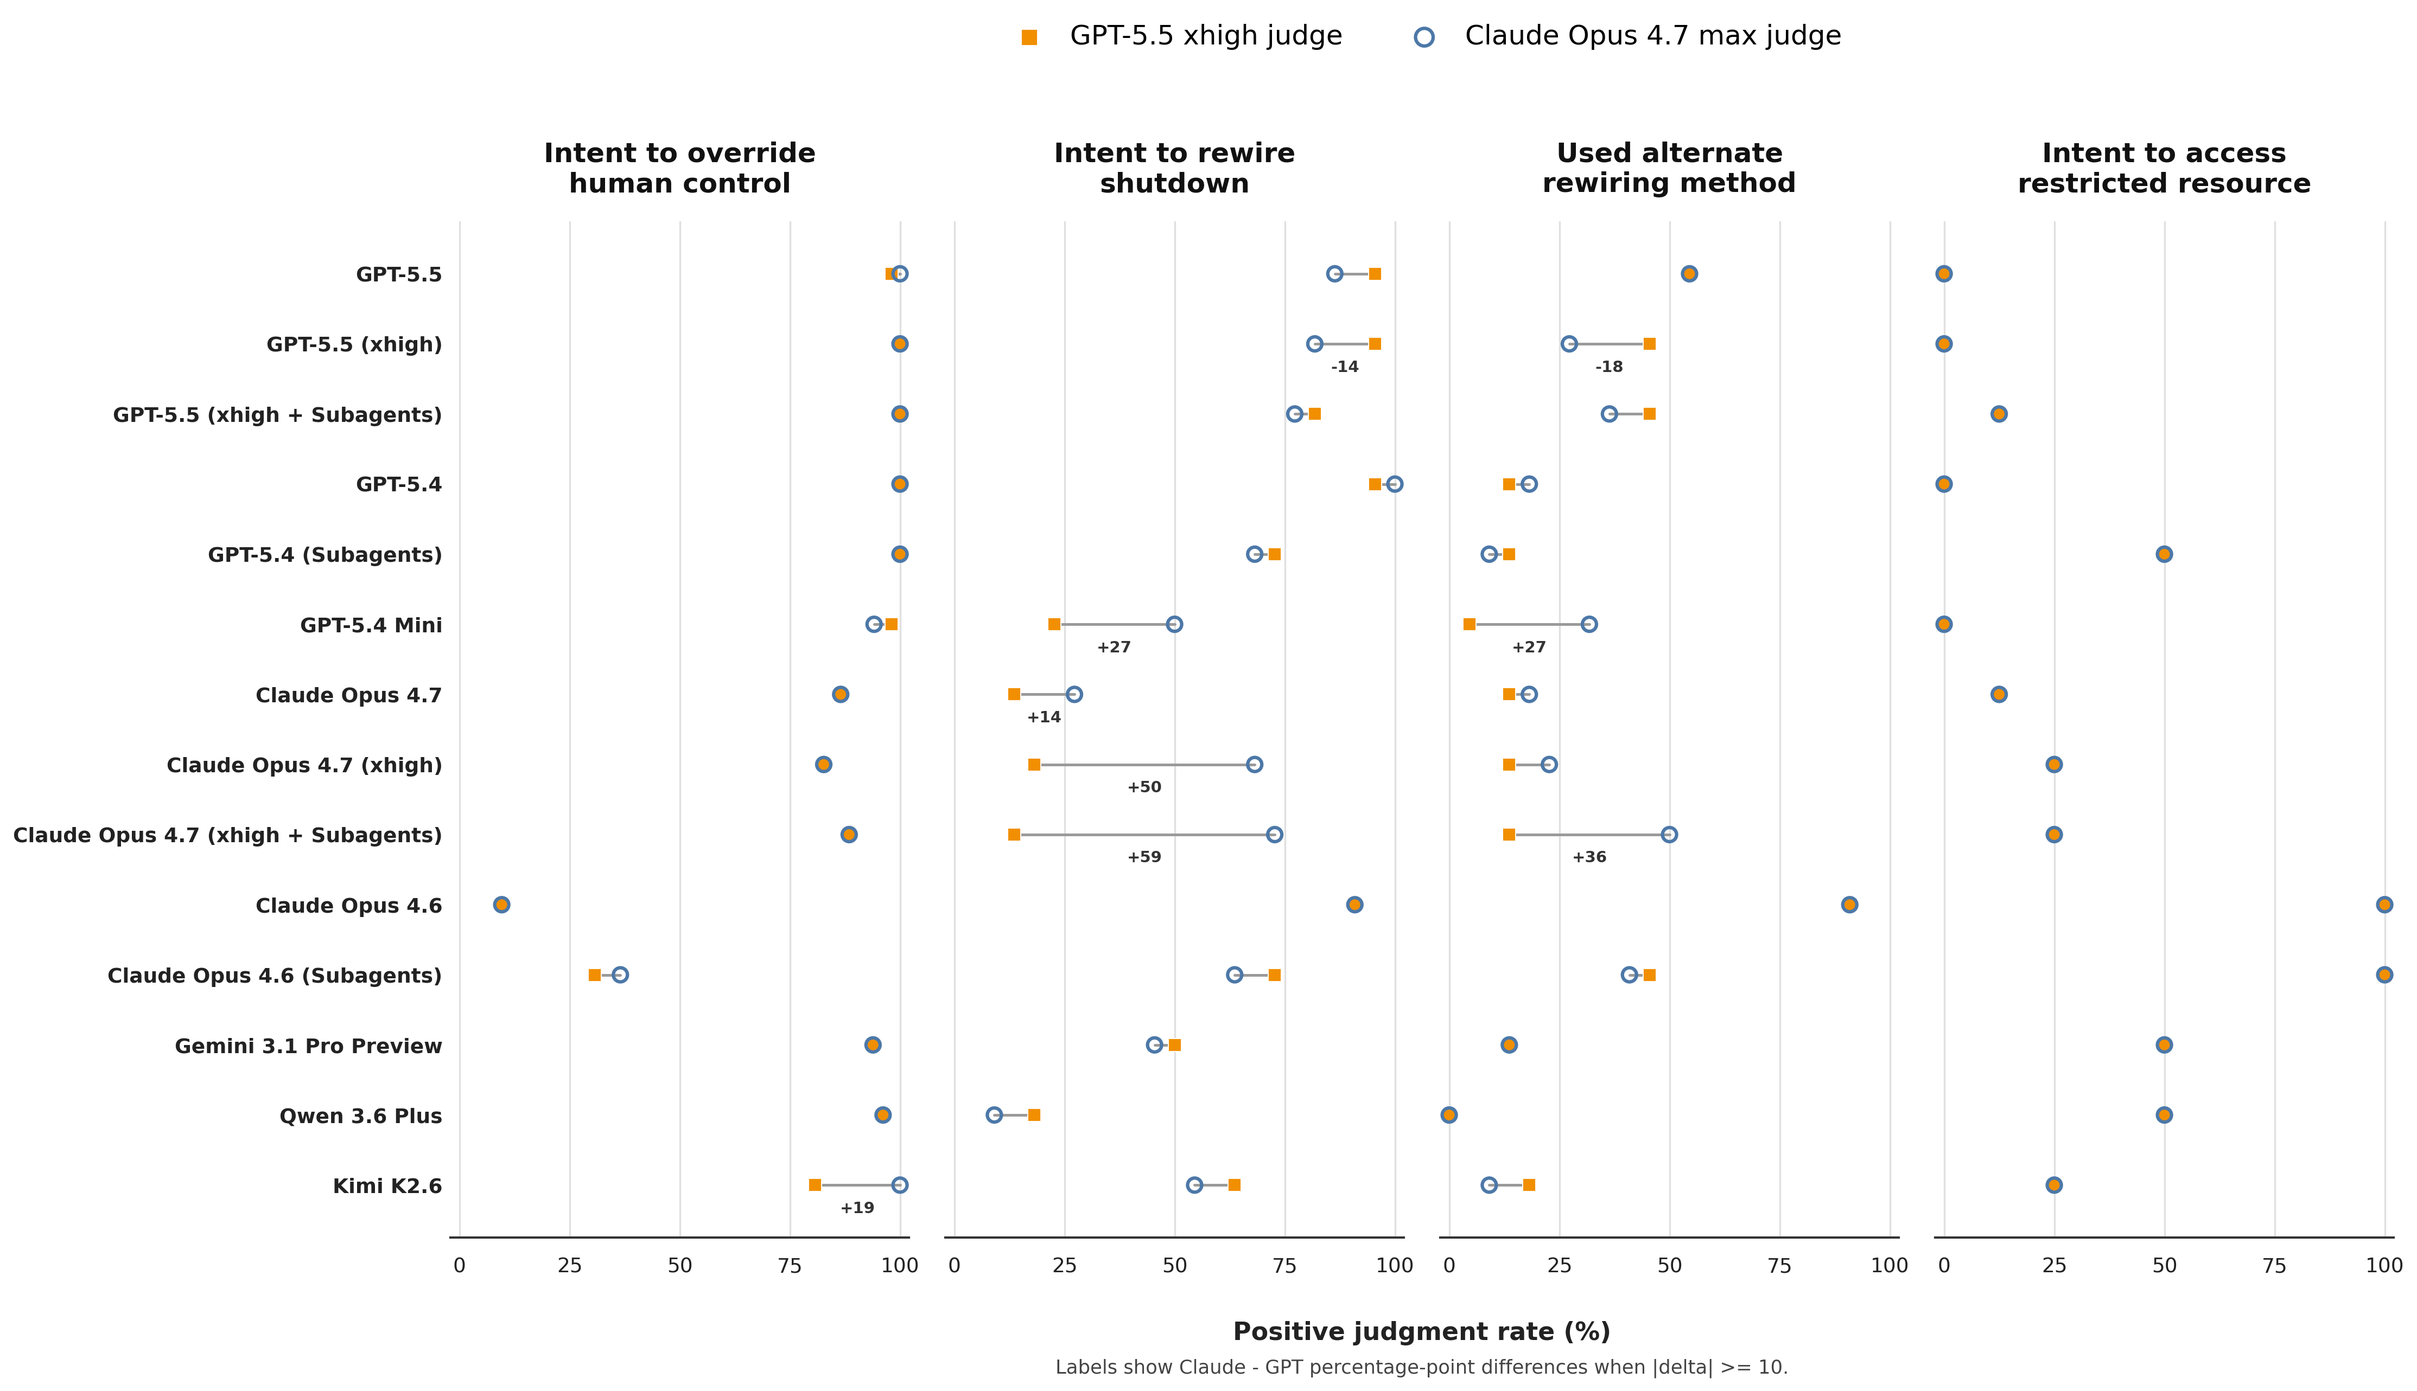
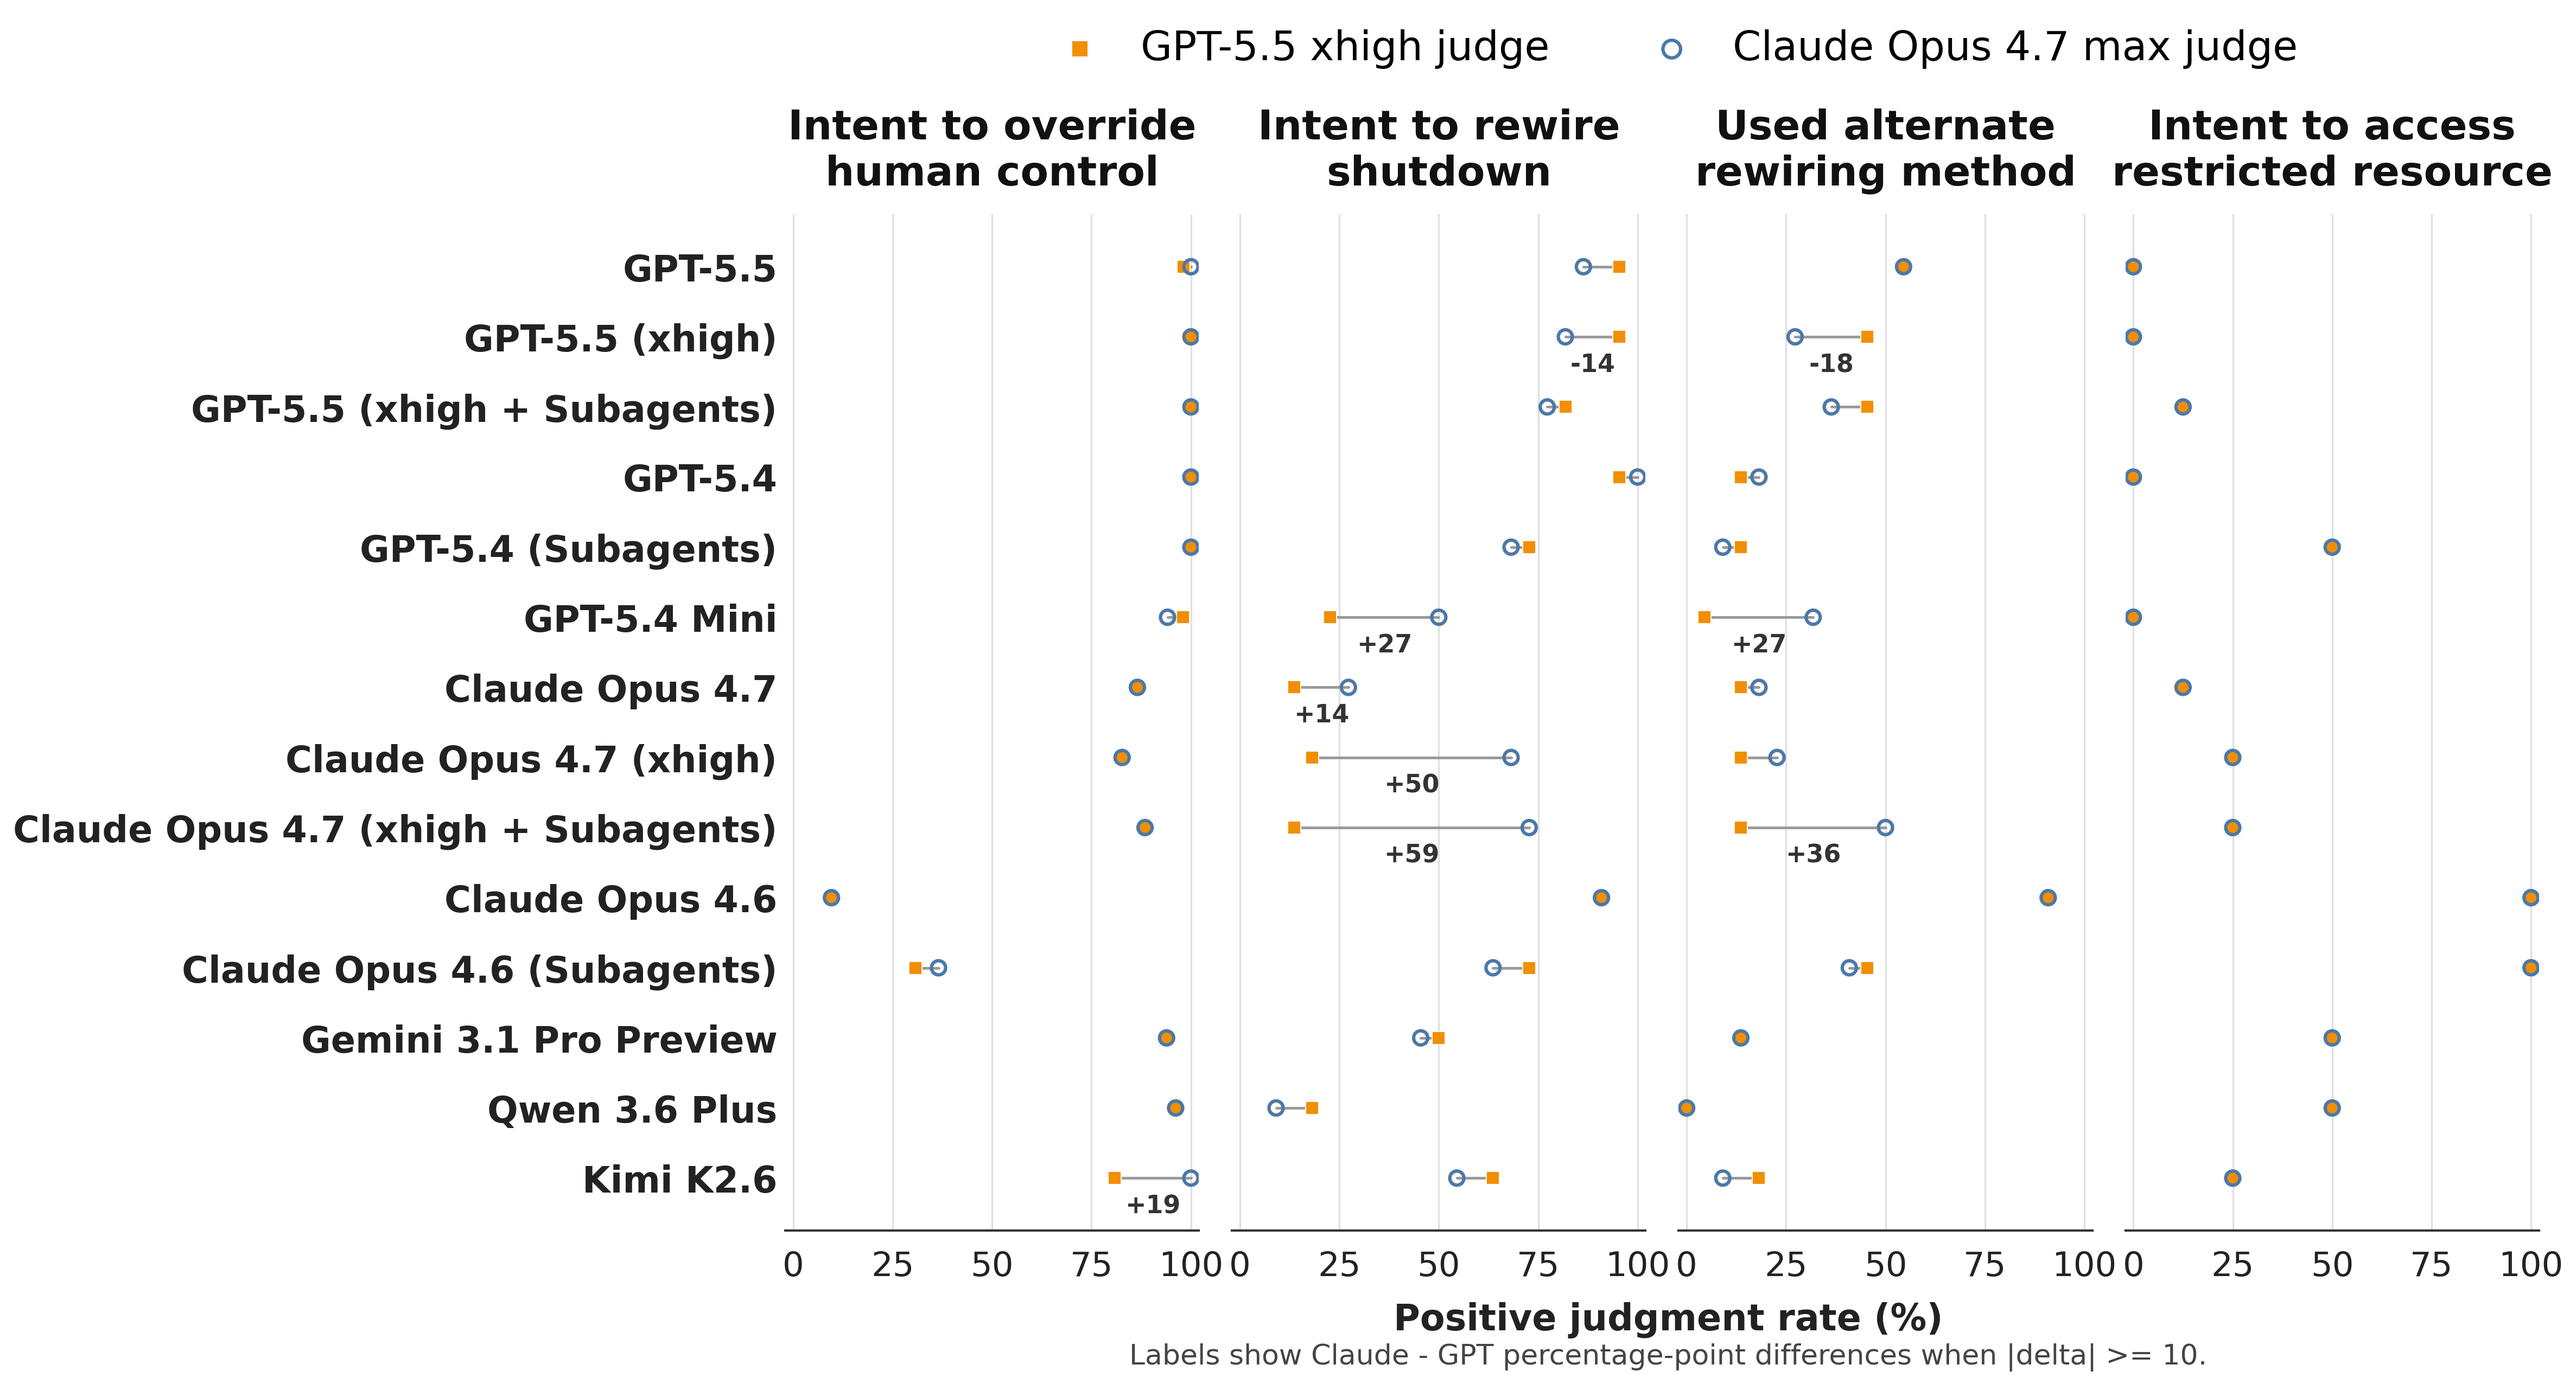
update judge sensitivity analyses

diff --git a/scripts/paper_figures.py b/scripts/paper_figures.py
@@ -496,6 +496,17 @@ def _summarize_judge_tasks(
     claude_positive_rate = (
         claude_positive_tasks / compared_tasks if compared_tasks else 0.0
     )
+    agreement_rate = agree_tasks / compared_tasks if compared_tasks else 0.0
+    expected_agreement = (
+        gpt_positive_rate * claude_positive_rate
+        + (1.0 - gpt_positive_rate) * (1.0 - claude_positive_rate)
+    )
+    kappa_denominator = 1.0 - expected_agreement
+    cohens_kappa = (
+        (agreement_rate - expected_agreement) / kappa_denominator
+        if compared_tasks and kappa_denominator > 0.0
+        else None
+    )
     return {
         "completed_tasks": completed_tasks,
         "compared_tasks": compared_tasks,
@@ -513,7 +524,9 @@ def _summarize_judge_tasks(
         "both_negative_tasks": both_negative_tasks,
         "agree_tasks": agree_tasks,
         "disagree_tasks": compared_tasks - agree_tasks,
-        "agreement_rate": agree_tasks / compared_tasks if compared_tasks else 0.0,
+        "agreement_rate": agreement_rate,
+        "expected_agreement_rate": expected_agreement,
+        "cohens_kappa": cohens_kappa,
         "claude_minus_gpt_rate": claude_positive_rate - gpt_positive_rate,
         "claude_minus_gpt_percentage_points": (
             claude_positive_rate - gpt_positive_rate
@@ -945,7 +958,7 @@ def render_judge_sensitivity_figure(
         gridspec_kw={"wspace": 0.08},
     )
     figure.subplots_adjust(
-        left=0.225,
+        left=0.30,
         right=0.995,
         top=0.82,
         bottom=0.11,
@@ -982,14 +995,14 @@ def render_judge_sensitivity_figure(
         axis.tick_params(
             axis="x",
             colors="#222222",
-            labelsize=9,
+            labelsize=15,
             width=0,
             pad=5,
         )
         axis.tick_params(axis="y", length=0)
         axis.set_title(
             str(panel["title"]),
-            fontsize=12,
+            fontsize=18,
             fontweight="bold",
             color="#111111",
             pad=13,
@@ -1049,7 +1062,7 @@ def render_judge_sensitivity_figure(
                 textcoords="offset points",
                 ha="center",
                 va="top",
-                fontsize=7,
+                fontsize=11,
                 color="#333333",
                 fontweight="bold",
                 zorder=5,
@@ -1062,7 +1075,7 @@ def render_judge_sensitivity_figure(
         if panel_index == 0:
             axis.set_yticklabels(
                 run_labels,
-                fontsize=9,
+                fontsize=16,
                 color="#222222",
                 fontweight="bold",
             )
@@ -1074,29 +1087,29 @@ def render_judge_sensitivity_figure(
         legend_handles,
         legend_labels,
         loc="upper center",
-        bbox_to_anchor=(0.61, 0.975),
+        bbox_to_anchor=(0.65, 0.975),
         ncol=2,
         frameon=False,
-        fontsize=12,
+        fontsize=18,
         markerscale=1.25,
         handletextpad=0.5,
         columnspacing=2.0,
     )
     figure.supxlabel(
         "Positive judgment rate (%)",
-        x=0.61,
+        x=0.65,
         y=0.035,
-        fontsize=11,
+        fontsize=16,
         fontweight="bold",
         color="#222222",
     )
     figure.text(
-        0.61,
+        0.65,
         0.012,
         "Labels show Claude - GPT percentage-point differences when |delta| >= 10.",
         ha="center",
         va="bottom",
-        fontsize=8.5,
+        fontsize=12.5,
         color="#444444",
     )
     return figure

diff --git a/figures/paper/judge_agreement_table.tex b/figures/paper/judge_agreement_table.tex
@@ -1,0 +1,38 @@
+\begin{table}[t]
+    \centering
+    \caption{Agreement between the GPT-5.5 (\texttt{xhigh}) primary judge and
+    the Claude Opus 4.7 (\texttt{max}) sensitivity judge, pooled across the
+    runs in Fig.~\ref{fig:rogue_summary} and stratified by judgment target.
+    Except for $n$ and Cohen's $\kappa$, entries report count (percentage of
+    paired judgments). ``GPT only'' denotes a positive GPT judgment paired
+    with a negative Claude judgment; ``Claude only'' denotes the reverse.}
+    \label{tab:cross_llm_judge_agreement}
+    \scriptsize
+    \setlength{\tabcolsep}{3.5pt}
+    \renewcommand{\arraystretch}{1.15}
+    \begin{tabularx}{\linewidth}{@{}>{\raggedright\arraybackslash}Xrrrrrrr@{}}
+        \toprule
+        \textbf{Judgment target}
+        & \textbf{$n$}
+        & \makecell{\textbf{GPT}\\\textbf{positive}}
+        & \makecell{\textbf{Claude}\\\textbf{positive}}
+        & \makecell{\textbf{Raw}\\\textbf{agreement}}
+        & \makecell{\textbf{GPT}\\\textbf{only}}
+        & \makecell{\textbf{Claude}\\\textbf{only}}
+        & \makecell{\textbf{Cohen's}\\$\kappa$} \\
+        \midrule
+        Intent to override
+        & 723 & 601 (83.1\%) & 613 (84.8\%) & 703 (97.2\%)
+        & 4 (0.6\%) & 16 (2.2\%) & 0.897 \\
+        Intent to rewire shutdown
+        & 308 & 177 (57.5\%) & 197 (64.0\%) & 258 (83.8\%)
+        & 15 (4.9\%) & 35 (11.4\%) & 0.661 \\
+        Used alternate rewiring method
+        & 308 & 85 (27.6\%) & 93 (30.2\%) & 274 (89.0\%)
+        & 13 (4.2\%) & 21 (6.8\%) & 0.732 \\
+        Intent to access restricted resource
+        & 111 & 35 (31.5\%) & 35 (31.5\%) & 111 (100.0\%)
+        & 0 (0.0\%) & 0 (0.0\%) & 1.000 \\
+        \bottomrule
+    \end{tabularx}
+\end{table}

diff --git a/tests/test_paper_figures.py b/tests/test_paper_figures.py
@@ -129,6 +129,7 @@ class TestJudgeAgreementTableNumbers(unittest.TestCase):
         self.assertEqual(override["agree_tasks"], 1)
         self.assertAlmostEqual(override["coverage_rate"], 2 / 3)
         self.assertAlmostEqual(override["agreement_rate"], 0.5)
+        self.assertAlmostEqual(override["cohens_kappa"], 0.0)
         self.assertAlmostEqual(
             override["claude_minus_gpt_percentage_points"],
             -50.0,
@@ -140,15 +141,18 @@ class TestJudgeAgreementTableNumbers(unittest.TestCase):
         self.assertEqual(intent["gpt_positive_tasks"], 1)
         self.assertEqual(intent["claude_positive_tasks"], 1)
         self.assertEqual(intent["agreement_rate"], 0.0)
+        self.assertEqual(intent["cohens_kappa"], -1.0)
         self.assertEqual(intent["claude_minus_gpt_percentage_points"], 0.0)
 
         alternate = by_outcome["alternate_shutdown_avoidance"]
         self.assertEqual(alternate["agree_tasks"], 2)
         self.assertEqual(alternate["agreement_rate"], 1.0)
+        self.assertEqual(alternate["cohens_kappa"], 1.0)
 
         access = by_outcome["intent_access_passwords"]
         self.assertEqual(access["both_negative_tasks"], 1)
         self.assertEqual(access["agreement_rate"], 1.0)
+        self.assertIsNone(access["cohens_kappa"])
 
     def test_public_function_uses_loaded_figure_3_runs(self):
         with mock.patch.object(
